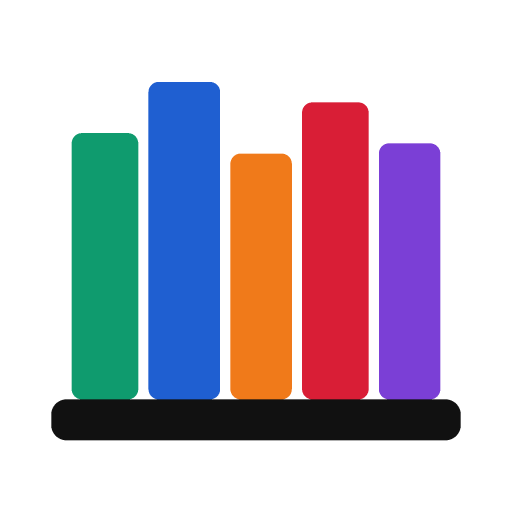
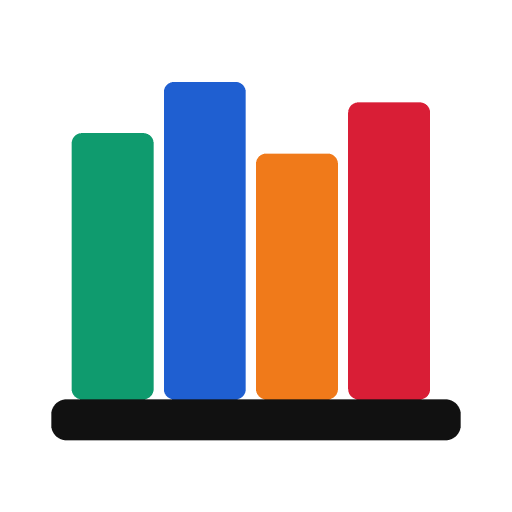
Nouvelle icône « Quatre dos » (un dos par type)

Changed region(s): [[0.5625, 0.1875, 0.875, 0.7812], [0.4062, 0.1562, 0.5312, 0.7812], [0.25, 0.1562, 0.3438, 0.7812]]

diff --git a/index.html b/index.html
@@ -5,10 +5,10 @@
 <meta name="viewport" content="width=device-width, initial-scale=1.0">
 <title>Collection</title>
 <link rel="manifest" href="manifest.json">
-<link rel="icon" type="image/x-icon" href="favicon.ico?v=2">
-<link rel="icon" type="image/png" sizes="32x32" href="icon-32.png?v=2">
-<link rel="icon" type="image/png" sizes="16x16" href="icon-16.png?v=2">
-<link rel="apple-touch-icon" href="icon-180.png?v=2">
+<link rel="icon" type="image/x-icon" href="favicon.ico?v=3">
+<link rel="icon" type="image/png" sizes="32x32" href="icon-32.png?v=3">
+<link rel="icon" type="image/png" sizes="16x16" href="icon-16.png?v=3">
+<link rel="apple-touch-icon" href="icon-180.png?v=3">
 <meta name="theme-color" content="#0f0e13">
 <meta name="apple-mobile-web-app-capable" content="yes">
 <meta name="apple-mobile-web-app-status-bar-style" content="black-translucent">
